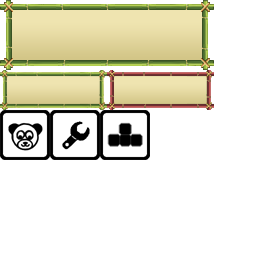
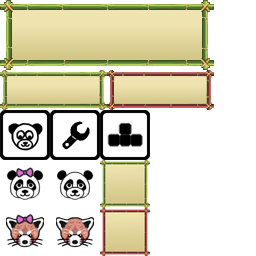
+- orth error

Changed region(s): [[0.2188, 0.625, 0.5938, 1.0], [0.0, 0.8125, 0.1875, 0.9688], [0.0312, 0.6562, 0.1875, 0.7812]]

diff --git a/src/ld34/scene/OptionsScene.java b/src/ld34/scene/OptionsScene.java
@@ -26,7 +26,7 @@ public class OptionsScene extends Scene {
     public Font font, fontL, fontU;
     public String title, btnBack, difficulty, easy, medium, hard, hardcore, language, french, english, commands,
             name, sexe, type, volume, controlJump, controlWalk;
-    public BufferedImage background2, btnCharacter, btnConfig, btnControls;
+    public BufferedImage background2, btnCharacter, btnConfig, btnControls, sGirl, sBoy, sPanda, spRoux, bgHeads, bgHeadsRed;
     public int[][] btnCoords;
     public int selectedItem, currentTab;
     public ArrayList<OptionButton> optionButtons = new ArrayList<>();
@@ -79,6 +79,12 @@ public class OptionsScene extends Scene {
         this.btnCharacter = this.spritesheetGui.getSubimage(0, 110, 50, 50);
         this.btnConfig = this.spritesheetGui.getSubimage(50, 110, 50, 50);
         this.btnControls = this.spritesheetGui.getSubimage(100, 110, 50, 50);
+        this.sGirl = this.spritesheetGui.getSubimage(0, 160, 50, 48);
+        this.sBoy = this.spritesheetGui.getSubimage(50, 160, 50, 48);
+        this.sPanda = this.spritesheetGui.getSubimage(50, 160, 50, 48);
+        this.spRoux = this.spritesheetGui.getSubimage(50, 208, 50, 48);
+        this.bgHeads = this.spritesheetGui.getSubimage(100, 160, 50, 48);
+        this.bgHeadsRed = this.spritesheetGui.getSubimage(100, 208, 50, 48);
         
         this.bundle = ResourceBundle.getBundle("lang.options", this.game.langs[(int)Configs.getInstance().getConfigValue("Lang")]);
         
@@ -116,18 +122,26 @@ public class OptionsScene extends Scene {
                 case 0:
                     if(mouseX > 230 && mouseX < 280 && mouseY > 190 && mouseY < 240){
                         //male btn
+                        this.sPanda = this.spritesheetGui.getSubimage(50, 160, 50, 48);
+                        this.spRoux = this.spritesheetGui.getSubimage(50, 208, 50, 48);
                         Configs.getInstance().setConfigValue("sex", 0);
                     }
                     else if(mouseX > 310 && mouseX < 360 && mouseY > 190 && mouseY < 240){
                         //female btn
+                        this.sPanda = this.spritesheetGui.getSubimage(0, 160, 50, 48);
+                        this.spRoux = this.spritesheetGui.getSubimage(0, 208, 50, 48);
                         Configs.getInstance().setConfigValue("sex", 1);
                     }
                     else if(mouseX > 230 && mouseX < 280 && mouseY > 270 && mouseY < 320){
                         //grandpanda btn
+                        this.sBoy = this.spritesheetGui.getSubimage(50, 160, 50, 48);
+                        this.sGirl = this.spritesheetGui.getSubimage(0, 160, 50, 48);
                         Configs.getInstance().setConfigValue("spicies", 0);
                     }
                     else if(mouseX > 310 && mouseX < 360 && mouseY > 270 && mouseY < 320){
                         //panda roux btn
+                        this.sBoy = this.spritesheetGui.getSubimage(50, 208, 50, 48);
+                        this.sGirl = this.spritesheetGui.getSubimage(0, 208, 50, 48);
                         Configs.getInstance().setConfigValue("spicies", 1);
                     }
                     break;
@@ -325,43 +339,41 @@ public class OptionsScene extends Scene {
         int sexeW = metrics.stringWidth(this.sexe);
         g.drawString(this.sexe, 150, 220);
         
-        //male
-        g.setColor(Color.GRAY);
-        g.fillRect(230, 190, 50, 50);
-        //female
-        g.fillRect(310, 190, 50, 50);
-        
         switch((int)Configs.getInstance().getConfigValue("sex")){
             case 0:
-                g.setColor(Color.RED);
-                g.drawRect(230, 190, 50, 50);
+                g.drawImage(this.bgHeadsRed, 230, 191, null);
+                g.drawImage(this.bgHeads, 310, 191, null);
                 break;
             case 1:
-                g.setColor(Color.RED);
-                g.drawRect(310, 190, 50, 50);
+                g.drawImage(this.bgHeads, 230, 191, null);
+                g.drawImage(this.bgHeadsRed, 310, 191, null);
                 break;
         }
+        
+        //male
+        g.drawImage(this.sBoy, 230, 191, null);
+        //female
+        g.drawImage(this.sGirl, 310, 191, null);
         
         g.setColor(Color.BLACK);
         int typeW = metrics.stringWidth(this.type);
         g.drawString(this.type, 150, 300);
-        
-        g.setColor(Color.GRAY);
-        //Grand panda
-        g.fillRect(230, 270, 50, 50);
-        //Panda roux
-        g.fillRect(310, 270, 50, 50);
-        
+
         switch((int)Configs.getInstance().getConfigValue("spicies")){
             case 0:
-                g.setColor(Color.RED);
-                g.drawRect(230, 270, 50, 50);
+                g.drawImage(this.bgHeadsRed, 230, 271, null);
+                g.drawImage(this.bgHeads, 310, 271, null);
                 break;
             case 1:
-                g.setColor(Color.RED);
-                g.drawRect(310, 270, 50, 50);
+                g.drawImage(this.bgHeads, 230, 271, null);
+                g.drawImage(this.bgHeadsRed, 310, 271, null);
                 break;
         }
+        
+        //Grand panda
+        g.drawImage(this.sPanda, 230, 271, null);
+        //Panda roux
+        g.drawImage(this.spRoux, 310, 271, null);
     }
     
     public void renderGameSettings(Graphics g){
@@ -483,4 +495,3 @@ public class OptionsScene extends Scene {
         }
     }
 }
-
